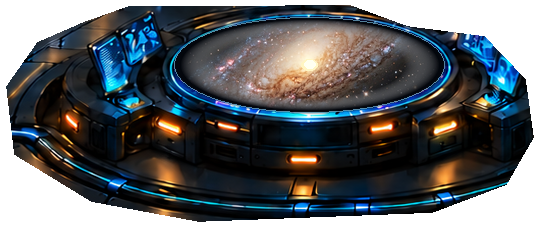
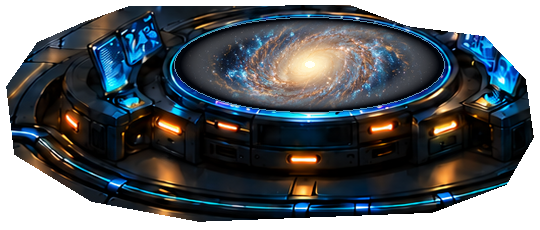
feat(kevin): vibrant cosmic star system with HD jewel-like planets, dynamic orbital wakes, and volumetric corona

Changed region(s): [[0.3556, 0.0913, 0.7704, 0.4565]]

diff --git a/webview-ui/src/ductor/starshipV10KevinMotion.ts b/webview-ui/src/ductor/starshipV10KevinMotion.ts
@@ -93,58 +93,58 @@ interface PlanetConfig {
   r: number;
   startAngle: number;
   speed: number;
-  baseScale: number;
+  color: string;
   spriteSrc: string;
 }
 
 const PLANETS: readonly PlanetConfig[] = [
   {
     id: 'mercury',
-    r: 18,
+    r: 17,
     startAngle: 4.40,
-    speed: 0.65,
-    baseScale: 0.70,
[1 lines of base64/hex data omitted]
+    speed: 0.85,
+    color: 'rgba(200, 215, 245,',
[1 lines of base64/hex data omitted]
   },
   {
     id: 'venus',
-    r: 30,
+    r: 29,
     startAngle: 2.70,
-    speed: 0.35,
-    baseScale: 0.70,
[1 lines of base64/hex data omitted]
+    speed: 0.45,
+    color: 'rgba(245, 215, 140,',
[1 lines of base64/hex data omitted]
   },
   {
     id: 'earth',
     r: 43,
     startAngle: 1.85,
-    speed: 0.22,
-    baseScale: 0.70,
[1 lines of base64/hex data omitted]
+    speed: 0.28,
+    color: 'rgba(56, 189, 248,',
[1 lines of base64/hex data omitted]
   },
   {
     id: 'mars',
     r: 57,
     startAngle: 5.25,
-    speed: 0.15,
-    baseScale: 0.70,
[1 lines of base64/hex data omitted]
+    speed: 0.18,
+    color: 'rgba(240, 100, 60,',
[1 lines of base64/hex data omitted]
   },
   {
     id: 'jupiter',
-    r: 73,
+    r: 72,
     startAngle: 3.50,
-    speed: 0.08,
-    baseScale: 0.70,
[1 lines of base64/hex data omitted]
+    speed: 0.09,
+    color: 'rgba(235, 190, 130,',
[1 lines of base64/hex data omitted]
   },
   {
     id: 'saturn',
-    r: 90,
+    r: 88,
     startAngle: 0.20,
     speed: 0.05,
-    baseScale: 0.66,
[1 lines of base64/hex data omitted]
+    color: 'rgba(240, 220, 170,',
[1 lines of base64/hex data omitted]
   },
 ];
 
@@ -269,19 +269,53 @@ export async function loadKevinPixelMotion(
 
       const speedMult = working ? 1.4 : 1.0;
 
-      // Strict elliptical design boundary to ensure zero content ever escapes the dish
+      // Strict elliptical design boundary
       frameCtx.save();
       frameCtx.beginPath();
       frameCtx.ellipse(DISH_CX, DISH_CY, DISH_RX, DISH_RY, 0, 0, Math.PI * 2);
       frameCtx.clip();
 
-      // Compute 3D positions of all 6 orbiting planets
+      // 1. Draw subtle, elegant celestial orbit paths
+      frameCtx.lineWidth = 1;
+      for (const p of loadedSprites) {
+        frameCtx.strokeStyle = 'rgba(56, 189, 248, 0.10)';
+        frameCtx.beginPath();
+        frameCtx.ellipse(
+          DISH_CX,
+          DISH_CY,
+          p.r,
+          p.r * ORBIT_Y_RATIO,
+          0,
+          0,
+          Math.PI * 2,
+        );
+        frameCtx.stroke();
+      }
+
+      // 2. Compute 3D positions and draw dynamic trailing orbital wakes
+      const trailLen = 0.40;
+      const trailSteps = 16;
       const states = loadedSprites.map((p) => {
         const theta = p.startAngle + p.speed * timeSec * speedMult;
         const gx = DISH_CX + Math.cos(theta) * p.r;
         const gy = DISH_CY + Math.sin(theta) * (p.r * ORBIT_Y_RATIO);
         const normDepth = (gy - DISH_CY) / DISH_RY;
-        const scale = p.baseScale * (1.0 + normDepth * 0.12);
+        const scale = 1.0 + normDepth * 0.12;
+
+        // Draw glowing cometary motion trail behind the planet along its orbit
+        for (let s = 0; s < trailSteps; s += 1) {
+          const frac = s / trailSteps;
+          const trailTheta = theta - (1.0 - frac) * trailLen;
+          const tx = DISH_CX + Math.cos(trailTheta) * p.r;
+          const ty = DISH_CY + Math.sin(trailTheta) * (p.r * ORBIT_Y_RATIO);
+          const alpha = (0.45 * Math.pow(frac, 2.0)).toFixed(3);
+          frameCtx.fillStyle = p.color + alpha + ')';
+          frameCtx.fillRect(Math.round(tx), Math.round(ty), 1, 1);
+          if (s > trailSteps - 5) {
+            frameCtx.fillRect(Math.round(tx), Math.round(ty) + 1, 1, 1);
+          }
+        }
+
         return {
           ...p,
           gx,
@@ -309,22 +343,31 @@ export async function loadKevinPixelMotion(
         }
       }
 
-      // Volumetric breathing glow on the central Sun
-      const sunBreath = 0.5 + 0.5 * Math.sin(timeSec * 2.5);
+      // Volumetric breathing solar corona
+      const sunBreath = 0.5 + 0.5 * Math.sin(timeSec * 2.8);
       const sunGlow = frameCtx.createRadialGradient(
         DISH_CX,
         DISH_CY,
-        3,
+        2,
         DISH_CX,
         DISH_CY,
-        20,
+        18 + sunBreath * 3,
       );
-      sunGlow.addColorStop(0, 'rgba(255, 245, 180, ' + (0.28 + sunBreath * 0.10).toFixed(3) + ')');
-      sunGlow.addColorStop(0.5, 'rgba(255, 175, 45, ' + (0.12 + sunBreath * 0.06).toFixed(3) + ')');
-      sunGlow.addColorStop(1, 'rgba(255, 95, 0, 0)');
+      sunGlow.addColorStop(0, 'rgba(255, 255, 240, 0.45)');
+      sunGlow.addColorStop(0.3, 'rgba(255, 220, 110, ' + (0.28 + sunBreath * 0.10).toFixed(3) + ')');
+      sunGlow.addColorStop(0.7, 'rgba(255, 140, 30, ' + (0.12 + sunBreath * 0.06).toFixed(3) + ')');
+      sunGlow.addColorStop(1, 'rgba(255, 80, 0, 0)');
       frameCtx.fillStyle = sunGlow;
       frameCtx.beginPath();
-      frameCtx.arc(DISH_CX, DISH_CY, 20, 0, Math.PI * 2);
+      frameCtx.ellipse(
+        DISH_CX,
+        DISH_CY,
+        22 + sunBreath * 3,
+        12 + sunBreath * 2,
+        0,
+        0,
+        Math.PI * 2,
+      );
       frameCtx.fill();
 
       // Render bodies in front of the Sun (gy >= DISH_CY)
